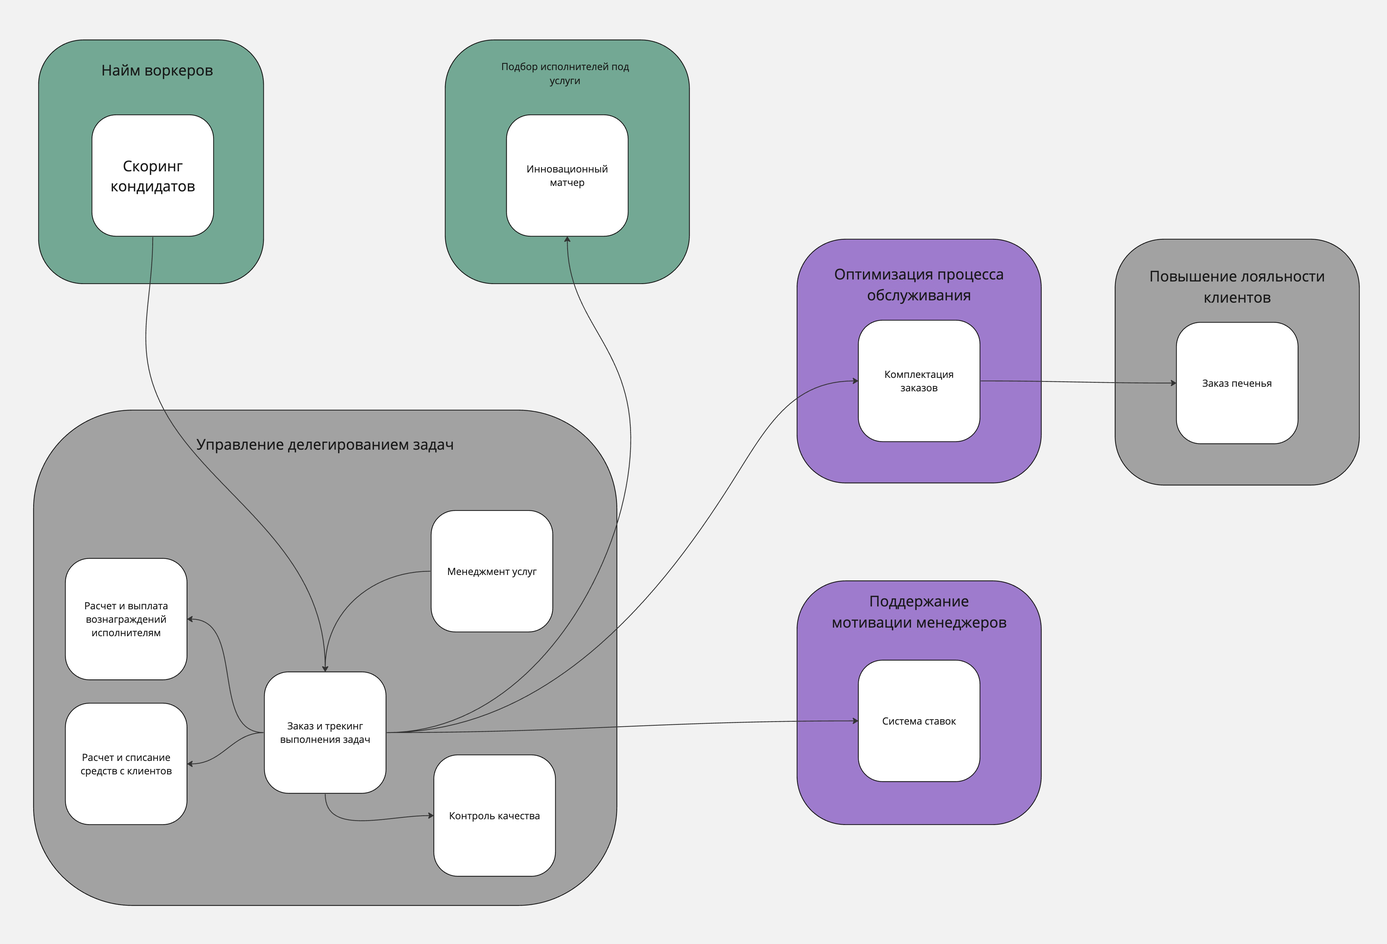
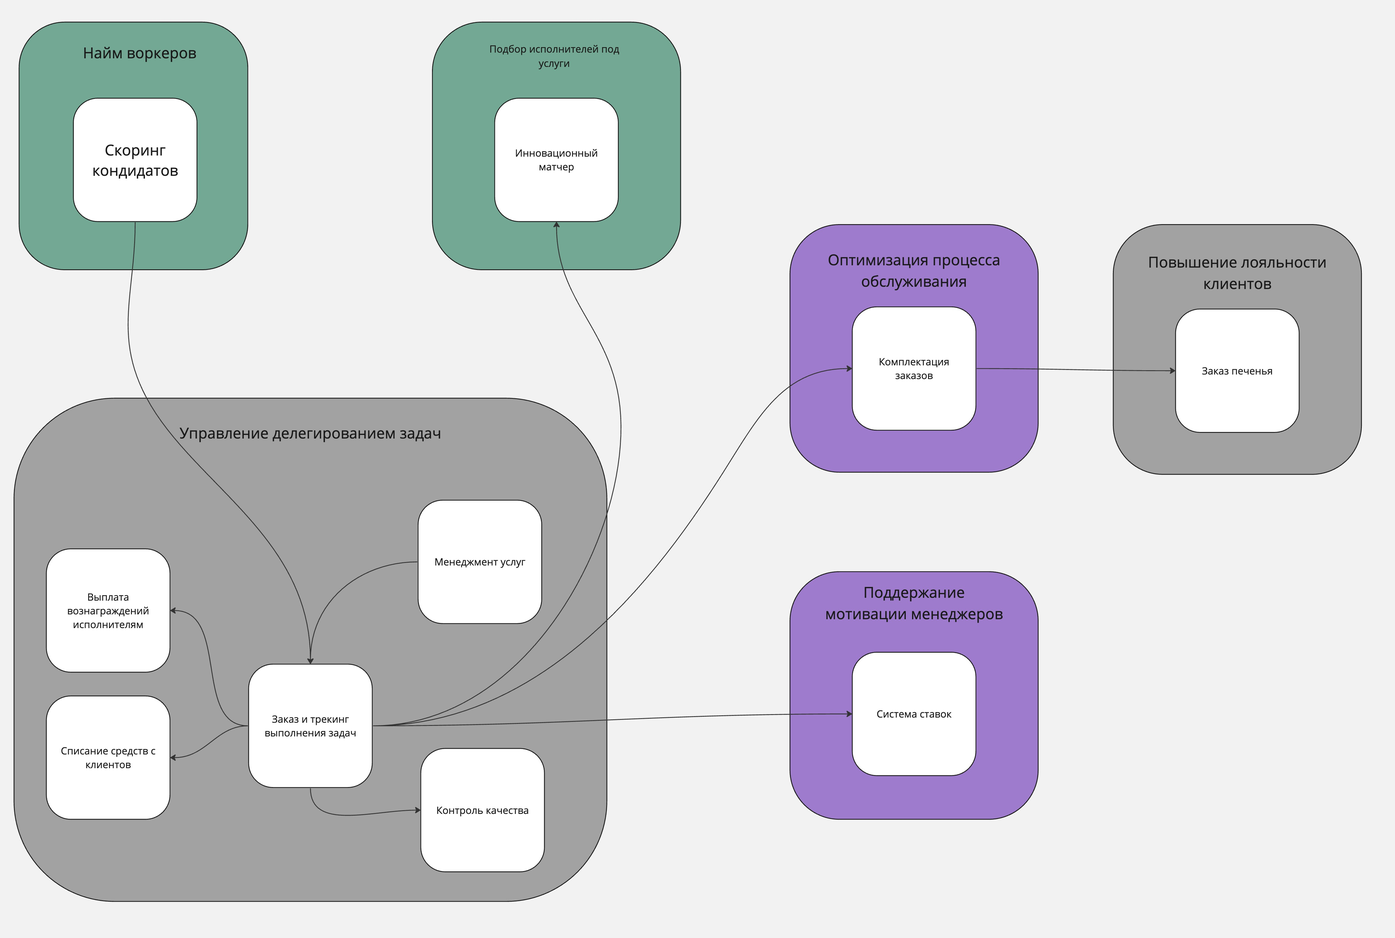
HW-3: Split into services

diff --git a/homework-3/README.md b/homework-3/README.md
@@ -60,14 +60,48 @@
 В таблице ниже выписала характеристики, выделенные из требований, ограничений и консёрнов стейкхолдеров,
 сгруппированные по контекстам:
 
-| Часть системы                                | Характеристики                                                                                                                                                           | Ограничения, консёрны, требования из ТЗ                                                                                                                                                                                                                                                                                                                                                                                                                                                                                           |
-|----------------------------------------------|--------------------------------------------------------------------------------------------------------------------------------------------------------------------------|-----------------------------------------------------------------------------------------------------------------------------------------------------------------------------------------------------------------------------------------------------------------------------------------------------------------------------------------------------------------------------------------------------------------------------------------------------------------------------------------------------------------------------------|
-| Система в целом                              | - Modifiability, <br>- Maintainability,<br>- Scalability, <br>- Agility, <br>- Evolvability,<br>- Testability, <br>- Deployability, <br>- Consistency, <br>- Reliability | - Компания планирует расширяться в будущем;<br>- Бизнесу необходим низкий ТТМ (Time To Market), чтобы конкурировать на рынке;<br>- Соблюдение CatFinComplience, который говорит об особом способе хранения данных и особой наблюдаемости за системой;<br>- Релизный цикл для всей системы — месяц;<br>- Система должна работать без сбоев, а если сбой случается, то должно быть понятно, что и где чинить;<br>- Простота мониторинга системы для своевременного замечания сбоев;<br>- Соответствие всей системы правовым нормам. |
-| Матчинг                                      | - Modifiability, maintainability<br>- Низкий каплинг, agility, evolvability<br>- Deployability, Testability<br>- Scalability, elasticity<br>- Reliability                | - Высокая сложность модели;<br>- Состоит из набора шагов в нужной нам последовательности, которая иногда может изменяться, при этом необходимо иметь возможность добавлять или редактировать шаги;<br>- Изолированность — разработчики не хотят делиться алгоритмами;<br>- Нагрузка будет расти с ростом кол-ва заказов;<br>- В результате матчинга всегда должен отдаваться воркер.                                                                                                                                              |
-| Скоринг кандидатов                           | - Modifiability, maintainability<br>- Низкий каплинг, agility, evolvability<br>- Deployability, Testability<br>- Scalability, elasticity<br>- Consistency, securability  | - Высокая сложность модели;<br>- Бизнес в будущем хочет продавать его другим компаниям и тестировать больше гипотез;<br>- Релизный цикл — неделя максимум;<br>- Мы ожидаем 1к заявок в день от рандомных котов, также, судя по отзывам, наши конкуренты могут попытаться нас заддосить в этом месте;<br>- Менеджеры должны иметь возможность конфигурировать набор тестов под каждого отдельного кота или вакансию котов;<br>- Требуется надежно хранить персональные данные котов-воркеров.                                      |
-| Система ставок                               | - Scalability, elasticity                                                                                                                                                | - Менеджеры хотят, чтобы о системе ставок знали минимум причастных;<br>- Ставки могут делать только менеджеры, которых будет не больше 15 голов;<br>- Количество ставок коррелирует с кол-вом заказов, поэтому должно масштабироваться соответственно.                                                                                                                                                                                                                                                                            |
-| Управление делегированием задач              | - Scalability, elasticity<br>- Usability                                                                                                                                 | - Выяснилось, что котам из Happy Cat Box наш проект понравился, поэтому приходит не 10 заказов в день, а 10 заказов в минуту;<br>- Ожидаемое поведение системы: без сбоев и тупняков (консёрн клиентов).                                                                                                                                                                                                                                                                                                                          |
-| Расчет и выплата вознаграждений исполнителям | - Consistency, securability                                                                                                                                              | - Требуется надежное хранение и неизменяемость фин данных (консёрн финансового отдела).                                                                                                                                                                                                                                                                                                                                                                                                                                           |
-| Расчет и списание средств с клиентов         | - Consistency, securability<br>- Agility, evolvability<br>- Deployability, Testability                                                                                   | - Требуется надежное хранение и неизменяемость фин данных (консёрн финансового отдела);<br>- Необходимо постоянно добавлять новые способы списания денег для клиентов.                                                                                                                                                                                                                                                                                                                                                            |
+| Часть системы                       | Характеристики                                                                                                                                                           | Ограничения, консёрны, требования из ТЗ                                                                                                                                                                                                                                                                                                                                                                                                                                                                                           |
+|-------------------------------------|--------------------------------------------------------------------------------------------------------------------------------------------------------------------------|-----------------------------------------------------------------------------------------------------------------------------------------------------------------------------------------------------------------------------------------------------------------------------------------------------------------------------------------------------------------------------------------------------------------------------------------------------------------------------------------------------------------------------------|
+| Система в целом                     | - Modifiability, <br>- Maintainability,<br>- Scalability, <br>- Agility, <br>- Evolvability,<br>- Testability, <br>- Deployability, <br>- Consistency, <br>- Reliability | - Компания планирует расширяться в будущем;<br>- Бизнесу необходим низкий ТТМ (Time To Market), чтобы конкурировать на рынке;<br>- Соблюдение CatFinComplience, который говорит об особом способе хранения данных и особой наблюдаемости за системой;<br>- Релизный цикл для всей системы — месяц;<br>- Система должна работать без сбоев, а если сбой случается, то должно быть понятно, что и где чинить;<br>- Простота мониторинга системы для своевременного замечания сбоев;<br>- Соответствие всей системы правовым нормам. |
+| Матчинг                             | - Modifiability, maintainability<br>- Низкий каплинг, agility, evolvability<br>- Deployability, Testability<br>- Scalability, elasticity                                 | - Высокая сложность модели;<br>- Состоит из набора шагов в нужной нам последовательности, которая иногда может изменяться, при этом необходимо иметь возможность добавлять или редактировать шаги;<br>- Изолированность — разработчики не хотят делиться алгоритмами;<br>- Нагрузка будет расти с ростом кол-ва заказов.                                                                                                                                                                                                          |
+| Скоринг кандидатов                  | - Modifiability, maintainability<br>- Низкий каплинг, agility, evolvability<br>- Deployability, Testability<br>- Scalability, elasticity<br>- Consistency, securability  | - Высокая сложность модели;<br>- Бизнес в будущем хочет продавать его другим компаниям и тестировать больше гипотез;<br>- Релизный цикл — неделя максимум;<br>- Мы ожидаем 1к заявок в день от рандомных котов, также, судя по отзывам, наши конкуренты могут попытаться нас заддосить в этом месте;<br>- Менеджеры должны иметь возможность конфигурировать набор тестов под каждого отдельного кота или вакансию котов;<br>- Требуется надежно хранить персональные данные котов-воркеров.                                      |
+| Система ставок                      | - Scalability, elasticity                                                                                                                                                | - Менеджеры хотят, чтобы о системе ставок знали минимум причастных;<br>- Ставки могут делать только менеджеры, которых будет не больше 15 голов;<br>- Количество ставок коррелирует с кол-вом заказов, поэтому должно масштабироваться соответственно.                                                                                                                                                                                                                                                                            |
+| Управление делегированием задач     | - Scalability, elasticity<br>- Usability                                                                                                                                 | - Выяснилось, что котам из Happy Cat Box наш проект понравился, поэтому приходит не 10 заказов в день, а 10 заказов в минуту;<br>- Ожидаемое поведение системы: без сбоев и тупняков (консёрн клиентов).                                                                                                                                                                                                                                                                                                                          |
+| Выплата вознаграждений исполнителям | - Consistency, securability<br>- Reliability                                                                                                                             | - Требуется надежное хранение и неизменяемость фин данных (консёрн финансового отдела).                                                                                                                                                                                                                                                                                                                                                                                                                                           |
+| Списание средств с клиентов         | - Consistency, securability<br>- Agility, evolvability<br>- Deployability, Testability<br>- Reliability                                                                  | - Требуется надежное хранение и неизменяемость фин данных (консёрн финансового отдела);<br>- Необходимо постоянно добавлять новые способы списания денег для клиентов.                                                                                                                                                                                                                                                                                                                                                            |
 
 ## Выбор архитектуры
+
+Опираясь на общие характеристики системы — *Deployability*, *Testability*, *Agility* — 
+делаю выбор в пользу **микросервисной архитектуры**.
+
+Ниже описала, какие контексты стоит выделить в отдельные сервисы и почему.
+
+1. **Скоринг кандидатов**
+   - для него явно указан специфический релизный цикл — 1 неделя против 1 месяца для всей системы;
+   - в будущем скоринг планируется продавать как продукт, его стоит сразу изолировать от прочей бизнес-логики;
+   - потенциально самая нагруженная часть системы;
+
+2. **Матчинг**
+   - знания об алгоритме матчинга должны быть инкапсулированы внутри одной команды;
+
+3. **Система ставок**
+   - вся система в целом должна соотв. правовым нормам (консёрн юристов), а эта часть находится в серой зоне;
+   - требуется ограничить доступ к информации о ставках (и в целом информированность о тотализаторе) для узкой группы пользователей;
+
+4. **Списание средств с клиентов**
+   - тут есть требование постоянно добавлять новые способы списания денег, лучше иметь возможность деплоить отдельно;
+
+5. **Комплектация заказов**
+   - вынесла по принципу отдельного домена со своей спецификой и отдельных людей, которые занимаются комплектацией заказов.
+
+6. **Заказ печенья**
+   - относится к generic-поддомену, можно использовать сторонее решение.
+
+Оставшиеся контексты можно объединить в один сервис, поскольку:
+ - нет специфических противоречащих требований,
+ - есть связанность на уровне данных.
+
+Итоговая структура сервисов:
+
+![Services](https://github.com/foxy-eyed/mcf-project/blob/hw-3/homework-3/img/services.jpg)
